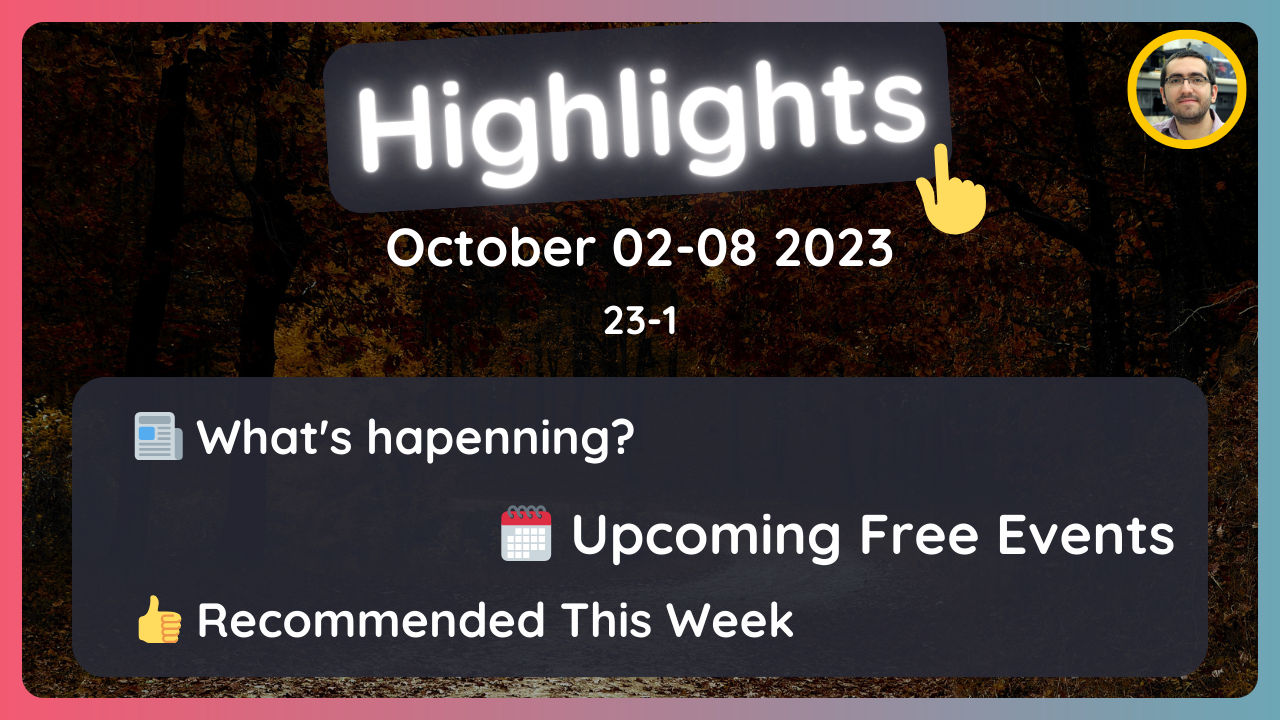
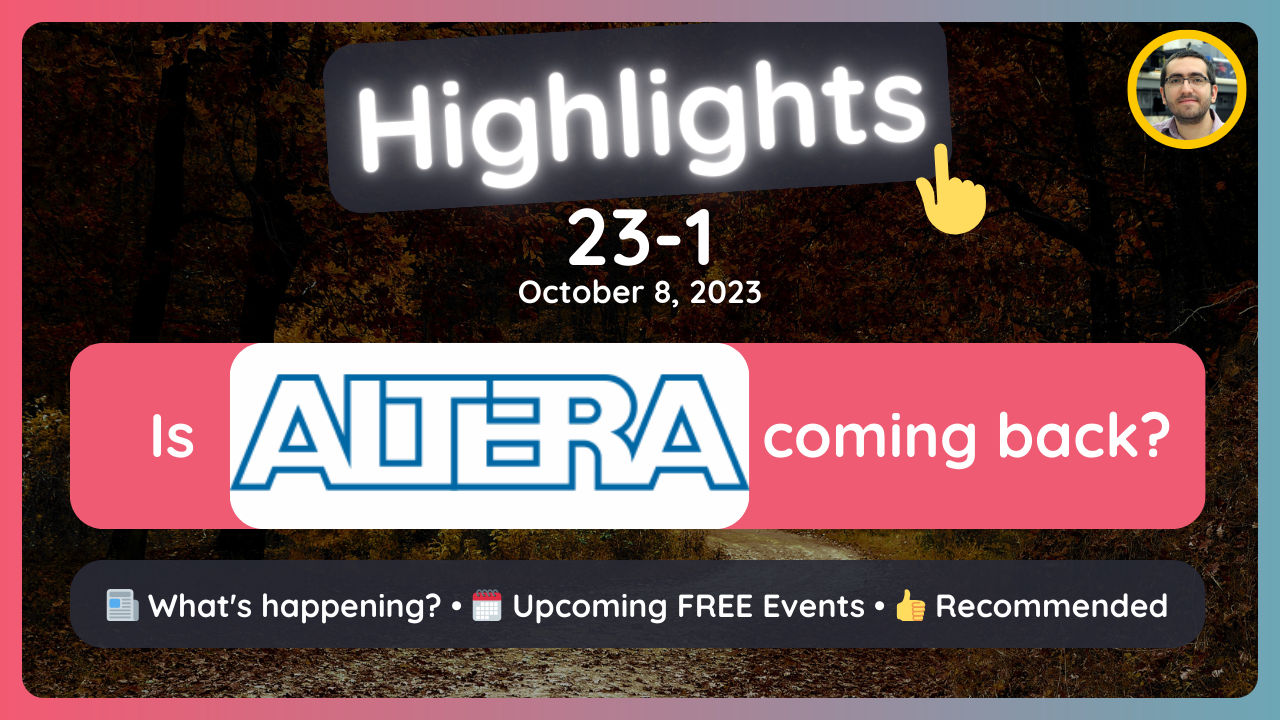
update highlights

diff --git a/docs/source/highlights/23/01.md b/docs/source/highlights/23/01.md
@@ -3,19 +3,23 @@ og:image: assets/social/Highlights-23-01.jpg
 ---
 # Highlights 23-01
 
-This article covers between October 02-08, 2023.
+This article covers the week of October 2, 2023.
 
-## 📰 What's hapenning?
+## 📰 What's happening?
 
 - Raspberry Pi Foundation announced **Raspberry Pi 5**. It will be available on
   October 2023. 4GB RAM: $60, 8GB RAM: $80. Quad core 64-bit ARM A76 CPU [^1f].
-  **Now, Raspberry Pi has its own silicon (ASIC) on the
-  Raspberry Pi board: RP1 (an I/O chip).** Notice that the RP2040 on
-  [Raspberry Pi Pico](https://www.raspberrypi.com/products/raspberry-pi-pico/)
-  was also designed by the team [^4f]. Unlike the older Raspberry Pi versions, an
-  active cooling solution is highly recommended by the team for 5. Now, they are
-  introducing two new official hardware solutions for cooling,
-  priced at $5 and $10 respectively.
+  **Now, Raspberry Pi has its own silicon (ASIC) on the Raspberry Pi board: RP1
+  (an I/O chip).** Notice that the RP2040 on [Raspberry Pi
+  Pico](https://www.raspberrypi.com/products/raspberry-pi-pico/) was also
+  designed by the team [^4f]. Unlike the older Raspberry Pi versions, an active
+  cooling solution is highly recommended by the team for 5. Now, they are
+  introducing two new official hardware solutions for cooling, priced at $5 and
+  $10 respectively. An interesting part of the incoming 5 is that it provides
+  **PCIe (x4, Gen 2.0)** connection via a [FPC
+  connector.](https://connectorsupplier.com/meet-the-connector-ffc-fpc-connectors/)
+
+  The official announcement video:
 
 ```{youtube} oo5wb4LDWW4
 :align: center
@@ -23,6 +27,9 @@ This article covers between October 02-08, 2023.
 ```
 
 ---
+
+A detailed and comparison (with other SBCs) by [Jeff
+Geerling](https://www.jeffgeerling.com):
 
 ```{youtube} nBtOEmUqASQ
 :align: center
@@ -44,6 +51,22 @@ This article covers between October 02-08, 2023.
 ---
 
 - Intel released **Quartus® Prime 23.3** [^3f].
+- **Is ALTERA coming back?** Intel announced that they are reorganizing their
+  FPGA group (Programmable Solutions Group, PSG) into a separate business unit
+  starting in 2024 [^6f], [^7f], [^8f], [^9f]. They said that they are
+  positioning PSG to more effectively compete in the FPGA market. Intel had
+  bought **ALTERA for $16.7 billion in 2015** [^10f]. Of course, the name will
+  not be ALTERA (probably). As an engineer working with FPGAs, I hope that this
+  won't "hurt" developers working with Intel FPGAs in the long run. **Will we
+  see a similar approach by AMD for Xilinx?**
+
+  [The most up voted
+  comment](https://www.reddit.com/r/FPGA/comments/16zpwmh/comment/k3g5xs8/?utm_source=share&utm_medium=web2x&context=3)
+  from the Reddit post by `Equivalent_Rule_3406`
+
+  > From a technical standpoint I welcome this move, from a business perspective
+  > let’s just say I’ve got my popcorn ready
+
 - [Teledyne Technologies Incorporated](https://www.teledynelecroy.com/) announced
   that it has entered into an
   agreement to acquire Xena Networks [^5f].
@@ -123,3 +146,8 @@ by Maria Azeria Markstedter
 [^3f]: <https://www.intel.com/content/www/us/en/products/details/fpga/development-tools/quartus-prime.html>
 [^4f]: Thanks [Anıl](https://www.linkedin.com/in/aniltirli) for reminding me the RP2040.
 [^5f]: <https://www.teledynelecroy.com/pressreleases/document.aspx?news_id=2215>
+[^6f]: <https://www.linkedin.com/posts/iancutress_intel-altera-fpga-activity-7115245001776709632-8aW5>
+[^7f]: <https://www.intel.com/content/www/us/en/newsroom/news/intel-oct-2023-news.html>
+[^8f]: <https://www.reddit.com/r/FPGA/comments/16zpwmh/intel_spinning_off_altera_in_upcoming_ipo/>
+[^9f]: <https://www.cnbc.com/2023/10/03/intel-plans-to-ipo-programmable-chip-unit-within-three-years.html>
+[^10f]: <https://www.reuters.com/article/us-altera-m-a-intel-idUSKBN0OH2E020150601>
